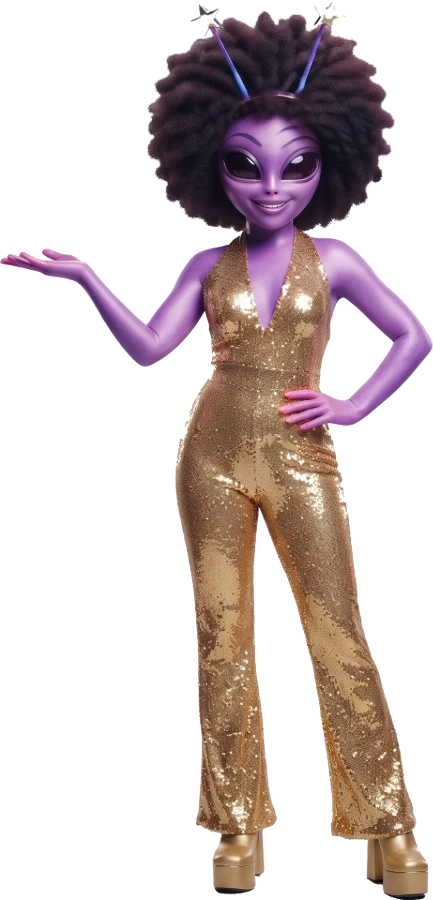
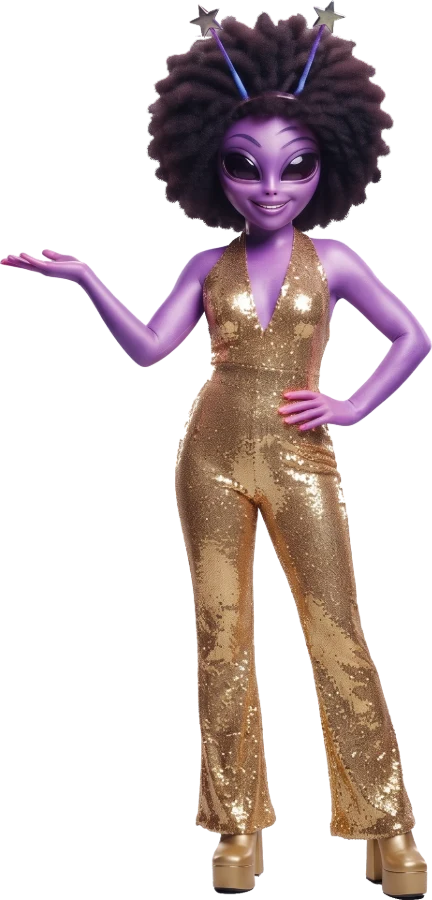
Run 4B item 6: Cleo's cut-out keeps her antennae
purple-presenting.webp re-cut from the source with tools/cutout-canvas.js, now with protect boxes around the two antenna tips: inside a box a pixel counts as backdrop only when it is within 16 of the backdrop colour there, so the silver stars and the antenna stems stay whole and no grey is left round them. 900 px tall WebP, 432x900, 68 KB. 5/5 fast episodes pass.

diff --git a/tools/cutout-canvas.js b/tools/cutout-canvas.js
@@ -3,7 +3,9 @@
 // CDP: it reads window.__cutSrc (default incoming-assets/purple-presenting.jpeg), keys out every pixel that is grey and
 // light (low saturation) and connected to the border - plus any enclosed grey patch over 2500 px (the gap inside a bent
 // arm) - softens the edge, trims, scales to 900 px tall and leaves a WebP data URL in window.__cut.url.
-// Known limit: silver details the colour of the backdrop (star tips) get keyed out too.
+// Silver details the colour of the backdrop (star tips) need a protect box: set window.__cutProtect = [{ x0, y0, x1, y1, T }]
+// (source pixels) first - inside a box a pixel is backdrop only when it is within T of the backdrop colour there (the box's
+// top row). Cleo (purple-presenting, Oct 23): [{ x0:705, y0:195, x1:835, y1:320, T:16 }, { x0:965, y0:195, x1:1095, y1:320, T:16 }].
 (async function(){
   const blob = await (await fetch(window.__cutSrc || '/incoming-assets/purple-presenting.jpeg')).blob();
   const img = await createImageBitmap(new Blob([blob], { type:'image/jpeg' }));
@@ -23,18 +25,29 @@
     const sat = mx - mn, lum = 0.3 * p[i] + 0.59 * p[i + 1] + 0.11 * p[i + 2];
     dist[y * W + x] = Math.max(0, (sat - 6) * 2.2, (110 - lum) * 1.2); }
   // flood fill from the border through backdrop-like pixels
-  const T = 30, isBg = new Uint8Array(W * H), q = new Int32Array(W * H); let qh = 0, qt = 0;
-  const push = (j)=>{ if (!isBg[j] && dist[j] < T){ isBg[j] = 1; q[qt++] = j; } };
+  // the backdrop threshold per pixel: T, or a gentler one inside window.__cutProtect boxes ([{ x0, y0, x1, y1, T }] in
+  // source pixels) - for silver details the colour of the backdrop, like antenna tips
+  const T = 30, thr = new Float32Array(W * H).fill(T);
+  // inside a box the test is the colour distance to the backdrop there (the mean of the box's top row), not the grey test
+  (window.__cutProtect || []).forEach(b=>{
+    let r = 0, g = 0, bl = 0, n = 0;
+    for (let x = b.x0; x < b.x1; x++){ const i = (b.y0 * W + x) * 4; r += p[i]; g += p[i + 1]; bl += p[i + 2]; n++; }
+    r /= n; g /= n; bl /= n;
+    for (let y = Math.max(0, b.y0); y < Math.min(H, b.y1); y++) for (let x = Math.max(0, b.x0); x < Math.min(W, b.x1); x++){
+      const j = y * W + x, i = j * 4; thr[j] = b.T; dist[j] = Math.hypot(p[i] - r, p[i + 1] - g, p[i + 2] - bl); }
+  });
+  const isBg = new Uint8Array(W * H), q = new Int32Array(W * H); let qh = 0, qt = 0;
+  const push = (j)=>{ if (!isBg[j] && dist[j] < thr[j]){ isBg[j] = 1; q[qt++] = j; } };
   for (let x = 0; x < W; x++){ push(x); push((H - 1) * W + x); }
   for (let y = 0; y < H; y++){ push(y * W); push(y * W + W - 1); }
   while (qh < qt){ const j = q[qh++], x = j % W, y = (j / W) | 0;
     if (x > 0) push(j - 1); if (x < W - 1) push(j + 1); if (y > 0) push(j - W); if (y < H - 1) push(j + W); }
   // enclosed backdrop (the gap inside a bent arm): any other backdrop-like patch bigger than 2500 px
   const seen = new Uint8Array(W * H);
-  for (let s = 0; s < W * H; s++){ if (isBg[s] || seen[s] || dist[s] >= T) continue;
+  for (let s = 0; s < W * H; s++){ if (isBg[s] || seen[s] || dist[s] >= thr[s]) continue;
     const comp = [s]; seen[s] = 1;
     for (let h = 0; h < comp.length; h++){ const j = comp[h], x = j % W, y = (j / W) | 0;
-      for (const n of [x > 0 ? j - 1 : -1, x < W - 1 ? j + 1 : -1, y > 0 ? j - W : -1, y < H - 1 ? j + W : -1]) if (n >= 0 && !seen[n] && !isBg[n] && dist[n] < T){ seen[n] = 1; comp.push(n); } }
+      for (const n of [x > 0 ? j - 1 : -1, x < W - 1 ? j + 1 : -1, y > 0 ? j - W : -1, y < H - 1 ? j + W : -1]) if (n >= 0 && !seen[n] && !isBg[n] && dist[n] < thr[n]){ seen[n] = 1; comp.push(n); } }
     if (comp.length > 2500) comp.forEach(j=> isBg[j] = 1); }
   // alpha: 0 on the backdrop; a soft ramp on pixels next to it; unmix the backdrop out of the edge colours
   let x0 = W, y0 = H, x1 = 0, y1 = 0;
@@ -43,7 +56,7 @@
     let edge = false;
     for (let dy = -2; dy <= 2 && !edge; dy++) for (let dx = -2; dx <= 2; dx++){ const xx = x + dx, yy = y + dy; if (xx >= 0 && yy >= 0 && xx < W && yy < H && isBg[yy * W + xx]){ edge = true; break; } }
     let a = 1;
-    if (edge) a = Math.max(0, Math.min(1, (dist[j] - T * 0.9) / 40));
+    if (edge) a = Math.max(0, Math.min(1, (dist[j] - thr[j] * 0.9) / 40));
     if (a > 0 && a < 1){ const k = y * 3; for (let c = 0; c < 3; c++) p[i + c] = Math.max(0, Math.min(255, (p[i + c] - (1 - a) * bg[k + c]) / a)); }
     p[i + 3] = Math.round(a * 255);
     if (a > 0.1){ if (x < x0) x0 = x; if (x > x1) x1 = x; if (y < y0) y0 = y; if (y > y1) y1 = y; }
